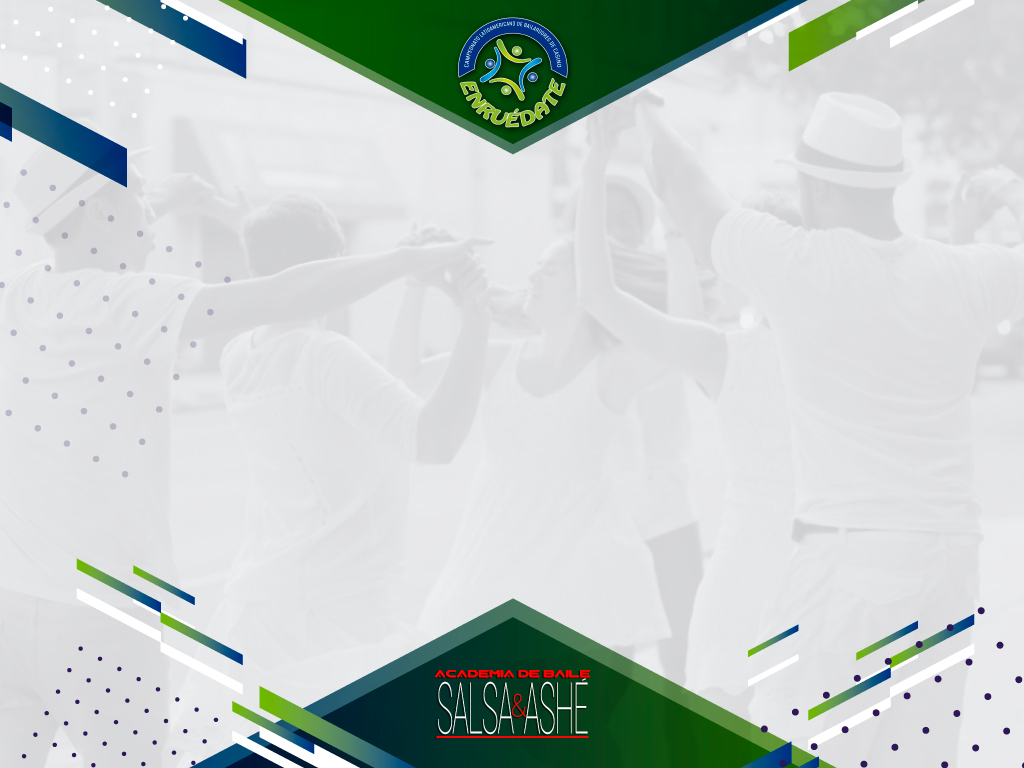
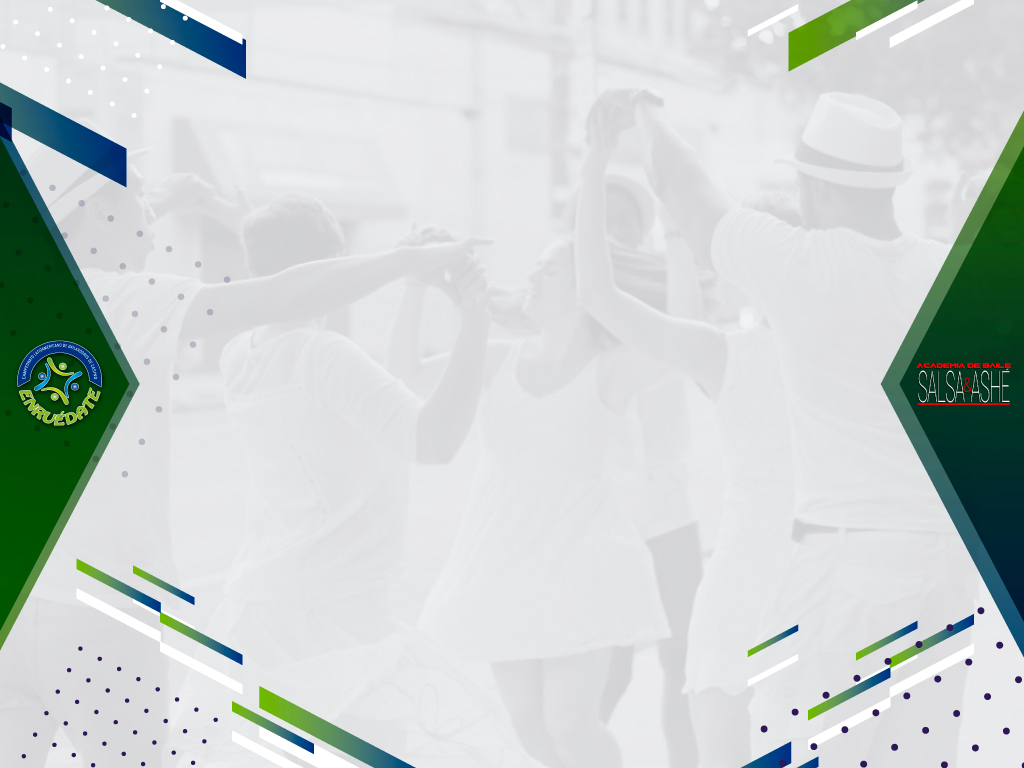
new background

diff --git a/pages/top/top_template.html b/pages/top/top_template.html
@@ -1,7 +1,7 @@
 <nav class="enruedate_blue_color z-depth-0">
 	<div class="nav-content">
 		<ul class="tabs tabs-transparent">
-			<li ng-click="changeTab($event, 1)" class="tab"><a ng-class="activeTab1" id="tab1" href="#">Top 10</a></li>
+			<li ng-click="changeTab($event, 1)" class="tab"><a ng-class="activeTab1" id="tab1" href="#">Top</a></li>
 			<li ng-click="changeTab($event, 2)" class="tab"><a ng-class="activeTab2" id="tab2" href="#">Detalle</a>
 			</li>
 		</ul>
@@ -34,10 +34,10 @@
 		</thead>
 
 		<tbody>
-			<tr ng-repeat="value in top | limitTo: 10 | filter:search" ng-if="value != null">
+			<tr ng-repeat="value in top | limitTo: 7" ng-if="value != null">
 				<td>{{value.participante}}</td>
 				<td>{{value.academia}}</td>
-				<td>{{value.total}}</td>
+				<td class="teal-text center">{{value.total}}</td>
 			</tr>
 		</tbody>
 	</table>

diff --git a/pages/contest2.html b/pages/contest2.html
@@ -1,14 +1,11 @@
 <nav class="nav-extended enruedate_blue_color" ng-show="!showCategory">
 	<div class="nav-wrapper">
-		<div class="row">
+		<div class="row valign-wrapper">
 			<div class="col s2 m1">
 				<img src="/assets/image/logo_enruedate.png" class="responsive-img margins-top-bottom" alt="">
 			</div>
 			<div class="col s9 m11 hide-on-med-and-up">
-				<ul id="nav-mobile" class="right">
-					<!-- <li>Categorias</li> -->
-					<!-- <li><a href="collapsible.html">JavaScript</a></li> -->
-				</ul>
+				<h5>Enruedate 2019</h5>
 			</div>
 		</div>
 	</div>

diff --git a/assets/css/app.css b/assets/css/app.css
@@ -41,7 +41,7 @@ body {
 }
 
 table{
-	font-size: larger
+	font-size: large
 }
 
 .home_bg {
@@ -57,7 +57,7 @@ table{
 
 .enruedate_bg{
 
-	    /* background-image: url('/assets/image/fondo-Enruedate-2019.jpg'); */
+	    background-image: url('/assets/image/fondo-Enruedate-2019.jpg');
 	    background-size: cover;
 	    height: 100%;
 	    background-position: bottom;
@@ -82,3 +82,4 @@ table{
 .margins-top-bottom {
 	margin: 1rem 0 0 0;
 }
+

diff --git a/index.html b/index.html
@@ -8,7 +8,7 @@
 	<meta name="description" content="Congreso Enruedate 2019">
 	<meta name="theme-color" content="#021e4a" />
 
-	<link rel="shortcut icon" href="assets/image/logo-enruedate.png">
+	<link rel="shortcut icon" href="assets/image/logo_enruedate.png">
 	<!-- Materialize CSS -->
 	<link rel="stylesheet" href="assets/css/materialize.min.css">
 	<link href="https://fonts.googleapis.com/icon?family=Material+Icons" rel="stylesheet">
